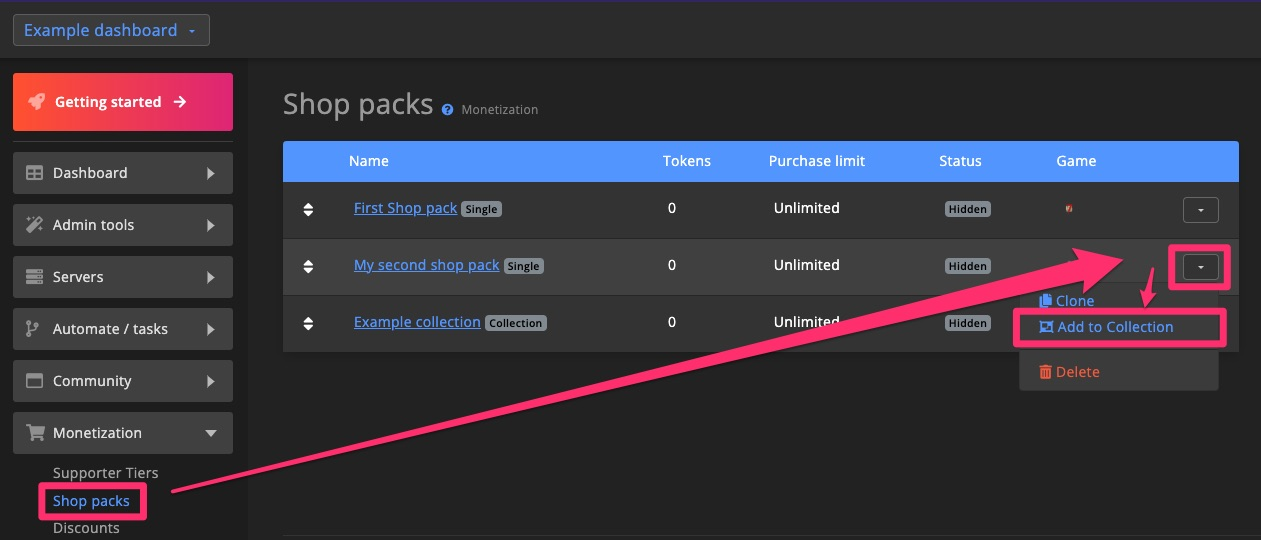
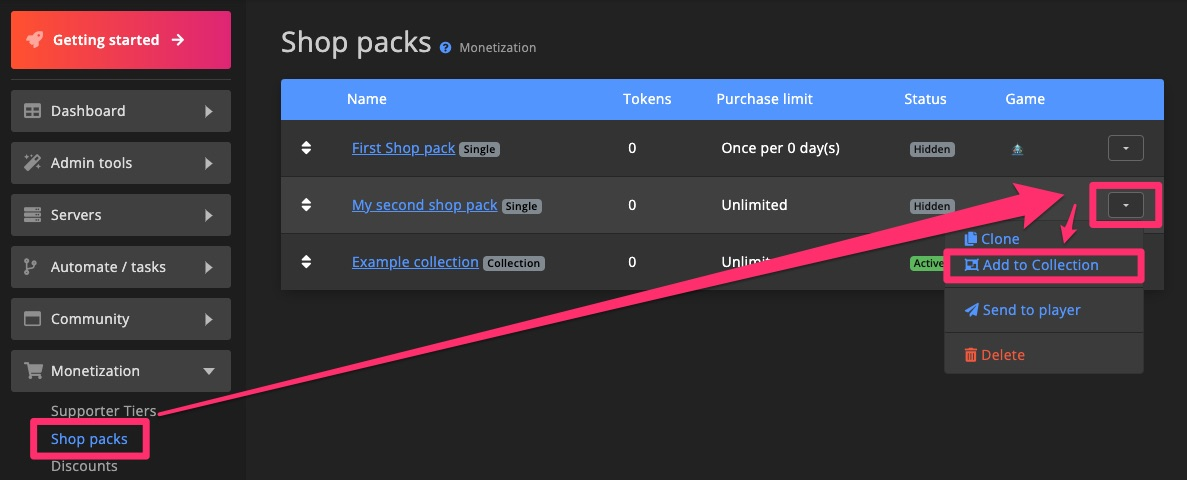
update supporter tier for settings page merge

diff --git a/Documentation/docs/dashboard/monetization/supporter_tiers.md b/Documentation/docs/dashboard/monetization/supporter_tiers.md
@@ -23,8 +23,7 @@ Enter a name in the popup and click `Create`.
 ![Monetization - Create Supporter Tier 2](/img/dashboard/monetization/supporter_tiers/create_tier_2.jpg)
 
 ### 2. Configure settings
-In the description you can summarize what is in the Supporter Tier. The description is shown on the Community website.
-
+In the description you can summarize what is in the Supporter Tier. The description is shown on the Community website.\
 Enter a currency, price and payment type (one-time or recurring). Click `Save settings` to save your changes.
 
 ![Monetization - Create Supporter Tier 3](/img/dashboard/monetization/supporter_tiers/create_tier_3.jpg)
@@ -49,7 +48,7 @@ The actions are similar to Task actions. [Learn more about the available actions
 ![Monetization - Create Supporter Tier 5](/img/dashboard/monetization/supporter_tiers/create_tier_5.jpg)
 
 ## Manage Tiers
-Re-order Supporter Tiers by dragging to the desired position. Delete and clone Supporter Tiers by clicking the dropdown menu.
+Re-order Supporter Tiers by dragging to the desired position. Send a Supporter Tier to a player or delete and clone Supporter Tiers via the dropdown menu.
 
 ![Monetization - Manage Supporter Tiers](/img/dashboard/monetization/supporter_tiers/manage_tiers.jpg)
 
